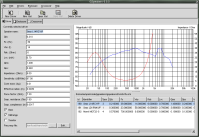
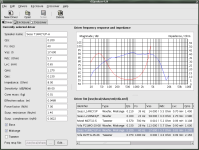
Prepared for 0.10 release

diff --git a/gspeakers2/html/index.html b/gspeakers2/html/index.html
@@ -27,6 +27,7 @@ How can I make it easier to design loudspeakers? You can download the result
 of my work (so far).<br>&nbsp;<br>
 
 <h2>Download</h2>
+<a href="">GSpeakers-0.10 (2003-02-13, gtkmm-2.0)</a>
 <a href="http://sourceforge.net/project/showfiles.php?group_id=42280&release_id=136159">GSpeakers-0.9 (Whatever, 2003-01-26, gtkmm-2.0)</a><br>
 <a href="http://sourceforge.net/project/showfiles.php?group_id=42280&release_id=129210">GSpeakers-0.8.4 (The Christmas release, 2002-12-20, gtkmm-2.0)</a><br>
 <a href="http://sourceforge.net/project/showfiles.php?group_id=42280&release_id=116436">GSpeakers-0.8.3 (Electioneering, 2002-10-15, gtkmm-2.0)</a><br>
@@ -41,14 +42,21 @@ of my work (so far).<br>&nbsp;<br>
 <a href="http://sourceforge.net/project/showfiles.php?group_id=42280&release_id=106524">GSpeakers-0.2 (2002-08-21, gtkmm-2.0)</a><br>
 <a href="http://sourceforge.net/project/showfiles.php?group_id=42280&release_id=68786">GSpeakers-0.1 (2002-01-07, gtkmm-1.2)</a><br>&nbsp;<br>
 
-Use GSpeakers-0.9 if you want to try something new. You need libxml2 and 
-Gtkmm-2.0.* to compile GSpeakers-0.9. Please submit any 
+Use GSpeakers-0.10 if you want to try something new. You need libxml2 and 
+Gtkmm-2.* to compile GSpeakers-0.10. Please submit any 
 comments to <a href="mailto:dss@home.se">me</a>. You also need a SPICE interpreter, you can find one 
 <a href="http://www.ibiblio.org/pub/Linux/apps/circuits/">here</a> or read more in 
 <a href="doc/gspeakers-gtk2/linuxinstall.html">the installation 
 instructions</a>. <br>&nbsp;<br>
 
 <h2>News</h2>
+<b>2003-02-13</b>: A little bit longer than I intended before I could do this release but here it is. I have improved
+the enclosure editor, the UI is adjusted to follow the Gnome HIG a little bit more, the toolbars are improved and instant 
+apply was implemented in the configuration dialog. Also the swedish translation was updated to follow. Take a good look at 
+the <a href="screenshots.html">new screenshots</a> and at the <a href="needhelp.html">updated roadmap</b>. If you want to 
+take part in the GSpeakers development process a good place to start is to translate GSpeakers to you language. 
+<a href="mailto:dss@home.se">Contact me</a> for more information.<br>&nbsp;<br>
+
 <b>2003-01-25</b>: A long time since last release but I've added a couple of useful features since then. Initial 
 gettext-support and a swedish translation was added. Other new stuff is a visual image of the components of the 
 currently selected crossover network. I have also 

diff --git a/gspeakers2/html/screenshots.html b/gspeakers2/html/screenshots.html
@@ -18,38 +18,36 @@
 
 <h2>Screenshots</h2>
 
-<b>GSpeakers-0.9 (Gtkmm-2.0)</b><br>
+<b>GSpeakers-0.10 (Gtkmm-2.0)</b><br>
 <a href="gspeakers2-1.png">
 <img src="gspeakers2-1_small.png"></a><br>
 <a href="gspeakers2-1.png">Larger screenshot</a><br>
 <i>Driver tab. Here you can enter driver parameters. Use this tab sort of like a datasheet.</i><br>&nbsp;<br>
 
-<b>GSpeakers-0.9 (Gtkmm-2.0)</b><br>
+<b>GSpeakers-0.10 (Gtkmm-2.0)</b><br>
 <a href="gspeakers2-2.png">
 <img src="gspeakers2-2_small.png"></a><br>
 <a href="gspeakers2-2.png">Larger screenshot</a><br> 
 <i>This is the part of the program where you design your loudspeaker enclosure.</i><br>&nbsp;<br>
 
-<b>GSpeakers-0.9 (Gtkmm-2.0)</b><br>
+<b>GSpeakers-0.10 (Gtkmm-2.0)</b><br>
 <a href="gspeakers2-3.png">
 <img src="gspeakers2-3_small.png"></a><br>
 <a href="gspeakers2-3.png">Larger screenshot</a><br> 
 <i>GSpeakers contains very powerful features which will help you to design a crossover for your loudspeakers. Here you can 
 see the estimated frequnecy response of the loudspeaker system.</i><br>&nbsp;<br>
 
-<b>GSpeakers-0.9 (Gtkmm-2.0)</b><br>
+<b>GSpeakers-0.10 (Gtkmm-2.0)</b><br>
 <a href="gspeakers2-4.png">
 <img src="gspeakers2-4_small.png"></a><br>
 <a href="gspeakers2-4.png">Larger screenshot</a><br> 
 <i>The new (in GSpeakers-0.9) visual crossover view.</i><br>&nbsp;<br>
 
-<b>GSpeakers-0.9 (Gtkmm-2.0)</b><br>
+<b>GSpeakers-0.10 (Gtkmm-2.0)</b><br>
 <a href="gspeakers2-5.png">
 <img src="gspeakers2-5_small.png"></a><br>
 <a href="gspeakers2-5.png">Larger screenshot</a><br> 
 <i>GSpeakers crossover tab with swedish translation activated.</i><br>&nbsp;<br>
-
-
 
 <b>GSpeakers-0.1 (Gtkmm-1.2)</b><br>
 <a href="gspeakers1.png">

diff --git a/gspeakers2/html/needhelp.html b/gspeakers2/html/needhelp.html
@@ -30,7 +30,7 @@ This will be a well tested and (hopefully) stable release suitable for packaging
 debs and rpms. If someone create gtkmm win32 binaries there might also be a win32 
 port of GSpeakers-1.0.<br>&nbsp;<br>
 
-<b>Roadmap (updated 2003-01-26)</b><br>
+<b>Roadmap (updated 2003-02-13)</b><br>
 The roadmap contains features that will be added in future releases of GSpeakers.<br>
 <i>Note that the version number marks features that will be implemented. They are not 
 listed in the order they will be implemented.</i>
@@ -41,7 +41,7 @@ uses gettext for internationalisation. (<b>done</b>)<br>&nbsp;<br>
 
 <b>GSpeakers-0.9:</b> Add part placement design view (only visual view, not interactive).(<b>done</b>)<br>&nbsp;<br>
 
-<b>GSpeakers-0.10:</b> Redesign the enclosure editor tab.<br>&nbsp;<br>
+<b>GSpeakers-0.10:</b> Redesign the enclosure editor tab. (<b>done</b>)<br>&nbsp;<br>
 
 <b>GSpeakers-0.11:</b> Add speaker measurement tab to main window.<br>&nbsp;<br>
 

diff --git a/gspeakers2/src/speakereditor.h b/gspeakers2/src/speakereditor.h
@@ -70,14 +70,14 @@ protected:
   void rdc_cell_data_func(Gtk::CellRenderer *cell, const Gtk::TreeModel::iterator& iter);
   void lvc_cell_data_func(Gtk::CellRenderer *cell, const Gtk::TreeModel::iterator& iter);
   void qms_cell_data_func(Gtk::CellRenderer *cell, const Gtk::TreeModel::iterator& iter);
-	void qes_cell_data_func(Gtk::CellRenderer *cell, const Gtk::TreeModel::iterator& iter);
+  void qes_cell_data_func(Gtk::CellRenderer *cell, const Gtk::TreeModel::iterator& iter);
   void imp_cell_data_func(Gtk::CellRenderer *cell, const Gtk::TreeModel::iterator& iter);
-	void sens_cell_data_func(Gtk::CellRenderer *cell, const Gtk::TreeModel::iterator& iter);
+  void sens_cell_data_func(Gtk::CellRenderer *cell, const Gtk::TreeModel::iterator& iter);
   void mmd_cell_data_func(Gtk::CellRenderer *cell, const Gtk::TreeModel::iterator& iter);
   void ad_cell_data_func(Gtk::CellRenderer *cell, const Gtk::TreeModel::iterator& iter);	
   void bl_cell_data_func(Gtk::CellRenderer *cell, const Gtk::TreeModel::iterator& iter);
   void rms_cell_data_func(Gtk::CellRenderer *cell, const Gtk::TreeModel::iterator& iter);
-	void cms_cell_data_func(Gtk::CellRenderer *cell, const Gtk::TreeModel::iterator& iter);	
+  void cms_cell_data_func(Gtk::CellRenderer *cell, const Gtk::TreeModel::iterator& iter);	
 		
   /* Helper funtions */
   virtual void create_model();

diff --git a/gspeakers2/src/speakereditor.cc b/gspeakers2/src/speakereditor.cc
@@ -73,6 +73,7 @@ Speaker_ListStore::Speaker_ListStore()
   m_inner_vbox.set_border_width(12);
   m_inner_vbox.pack_start(m_Table);
   
+
   m_editor_frame.set_shadow_type(Gtk::SHADOW_NONE);
   static_cast<Gtk::Label*>(m_editor_frame.get_label_widget())->set_markup("<b>" + Glib::ustring(_("Currently selected driver")) + "</b>");
   //m_editor_frame.set_label(_("Currently selected driver"));

diff --git a/gspeakers2/src/driverfreqrespplot.cc b/gspeakers2/src/driverfreqrespplot.cc
@@ -29,7 +29,7 @@ DriverFreqRespPlot::DriverFreqRespPlot() :
 {
   set_shadow_type(Gtk::SHADOW_NONE);
   static_cast<Gtk::Label*>(get_label_widget())->set_markup("<b>" + Glib::ustring(_("Driver frequency response and impedance")) + "</b>");
-  set_border_width(2);
+  set_border_width(5);
   sw.add(plot);
   sw.set_border_width(12);
   sw.set_policy(Gtk::POLICY_NEVER, Gtk::POLICY_NEVER);
